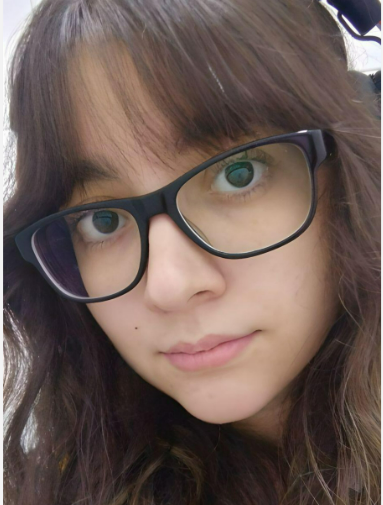
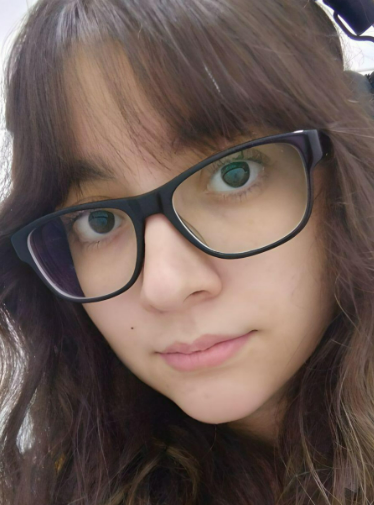
dd

diff --git a/css/style.css b/css/style.css
@@ -371,7 +371,7 @@ input[type="submit"]:hover {
 .contIni img {
     border-radius: 10%;
     width: 200px;
-    height: 220px;
+    height: 200px;
     border: 5px solid rgba(0 0 0 /12%);
     object-fit: cover;
     object-position: bottom;
